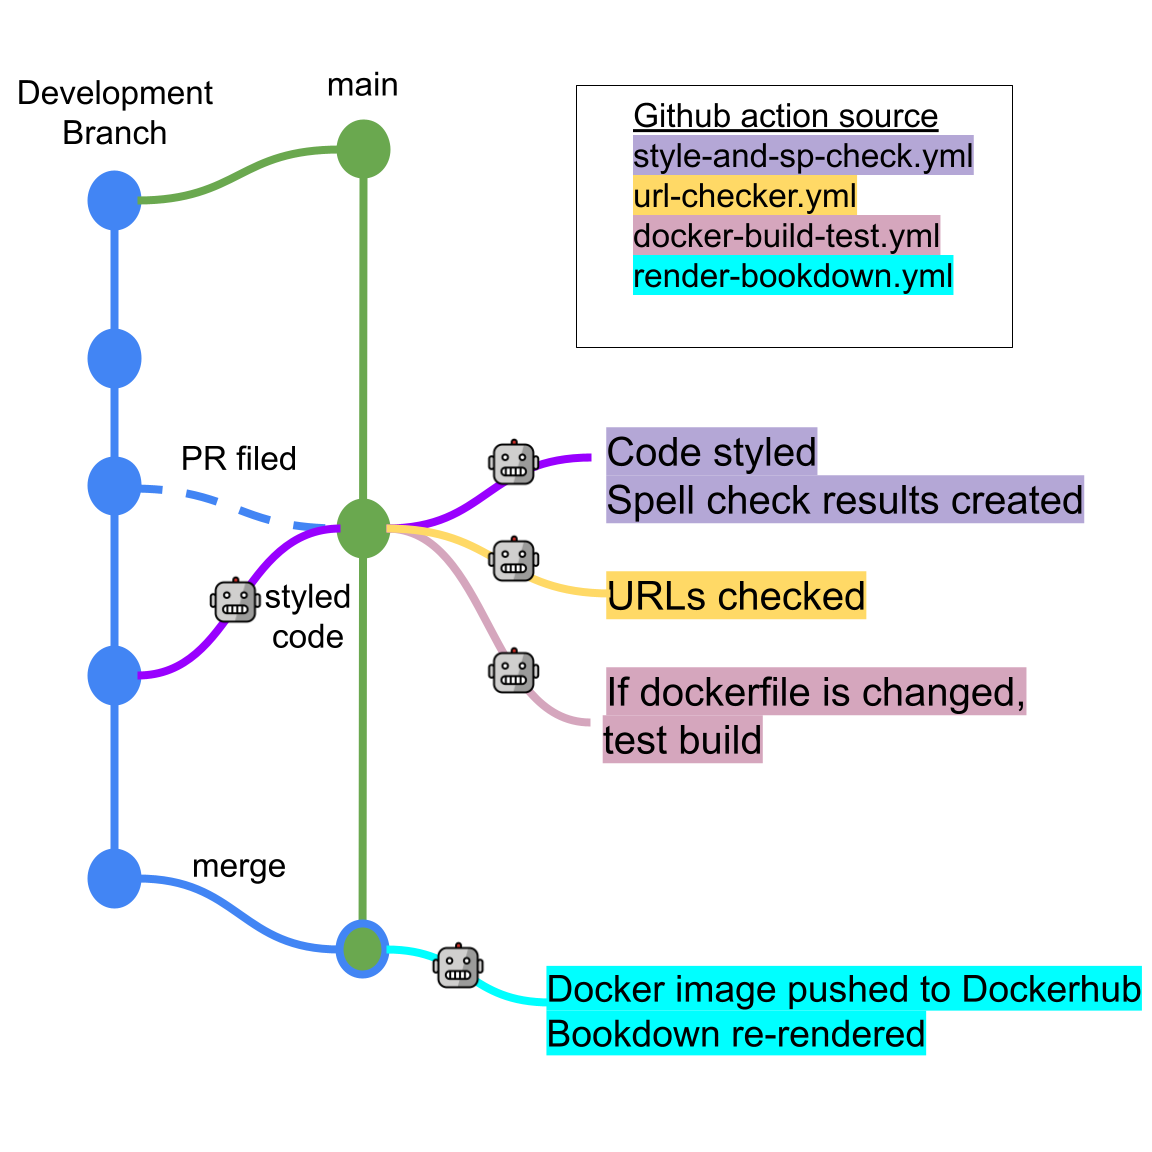
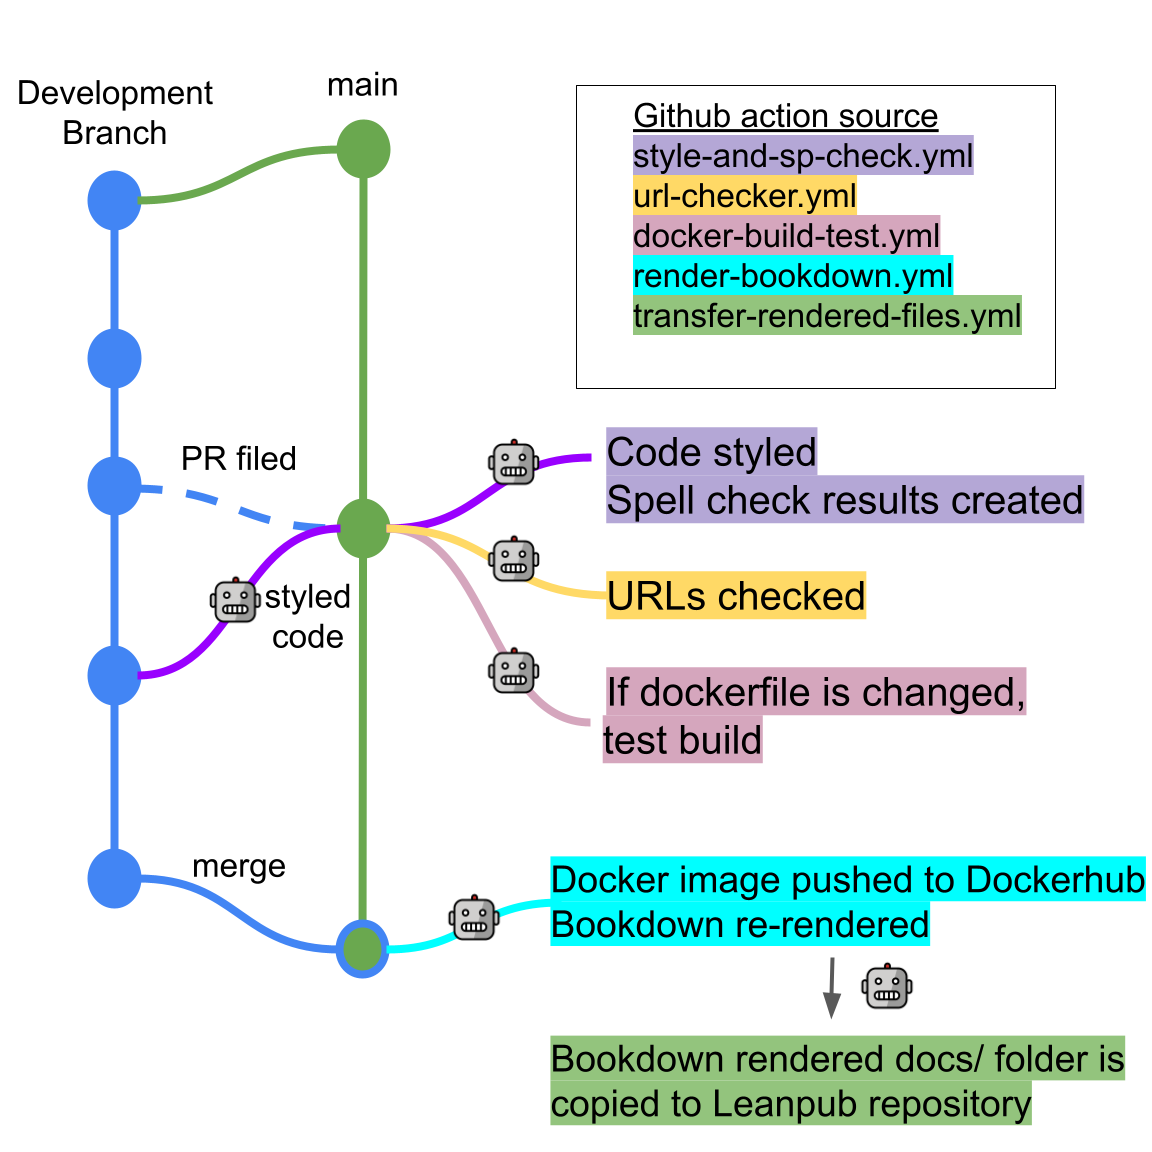
Add info about transfer rendered files gha

Changed region(s): [[0.3438, 0.7188, 1.0, 1.0], [0.5312, 0.25, 0.9062, 0.3125], [0.4688, 0.5, 0.5312, 0.5312]]

diff --git a/getting_started.md b/getting_started.md
@@ -232,6 +232,8 @@ Here's a summary of the Github actions set up in this repository.
 
 Note that `build-all` and `docker-build-test` are not something we recommend requiring for status checks because `docker-build-test` is only run if there are changes to the Dockerfile and `build-all` is only run upon the acceptance and merging of a pull request.
 
+Once `build-all` is run, the `docs/` folder where the rendered files are place are copied over to the Leanpub repository and filed as a pull request.
+
 ### Style guide
 
 Github actions will run the [`styler` package to all style R in all Rmds](https://github.com/jhudsl/ITCR_Course_Template_Bookdown/blob/main/.github/workflows/style-and-sp-check.yml) whenever a pull request to the `main` branch is filed.
